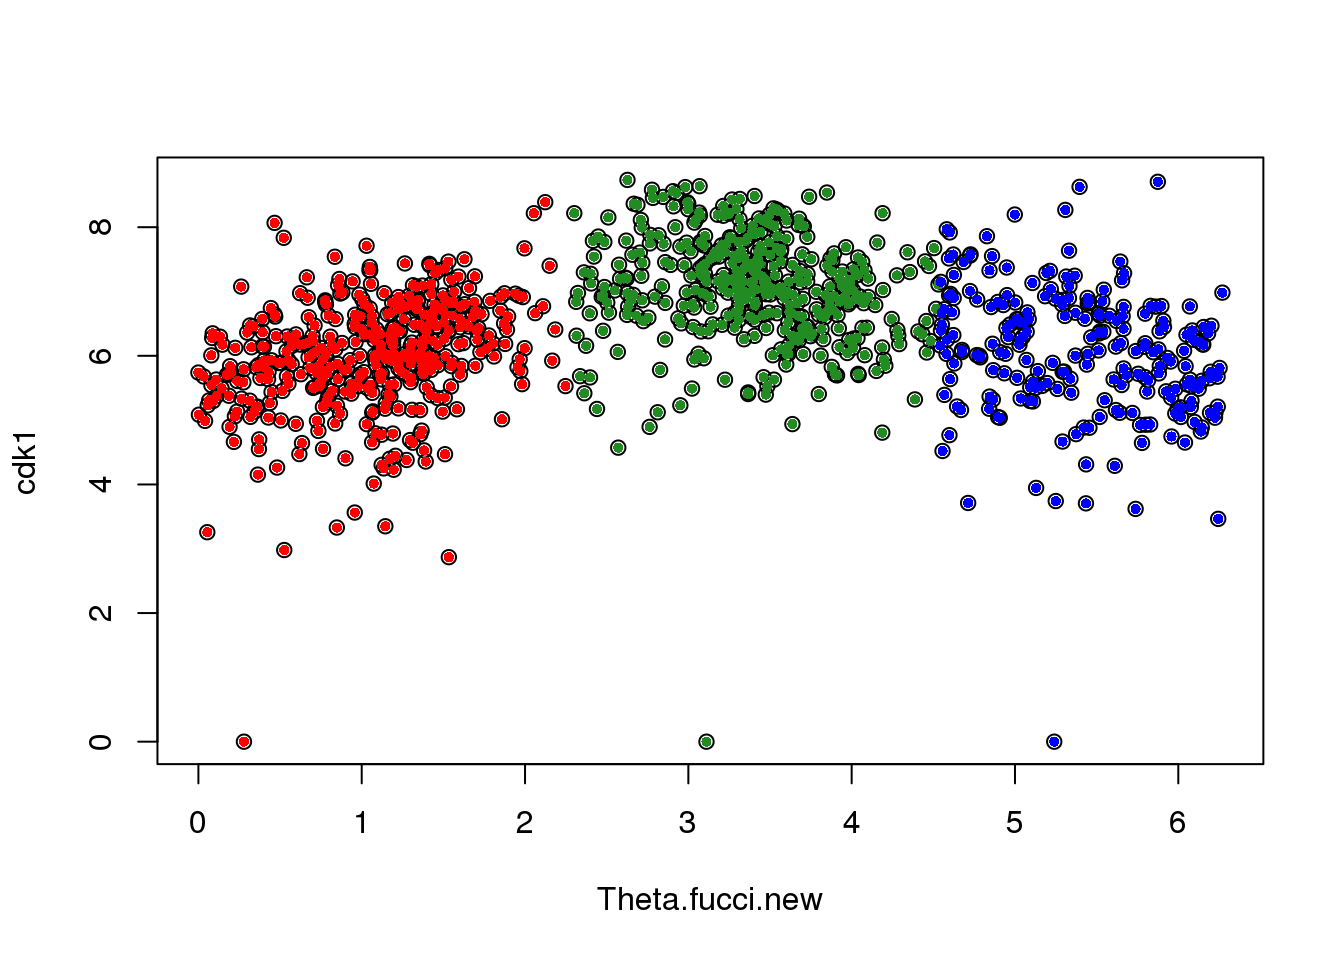
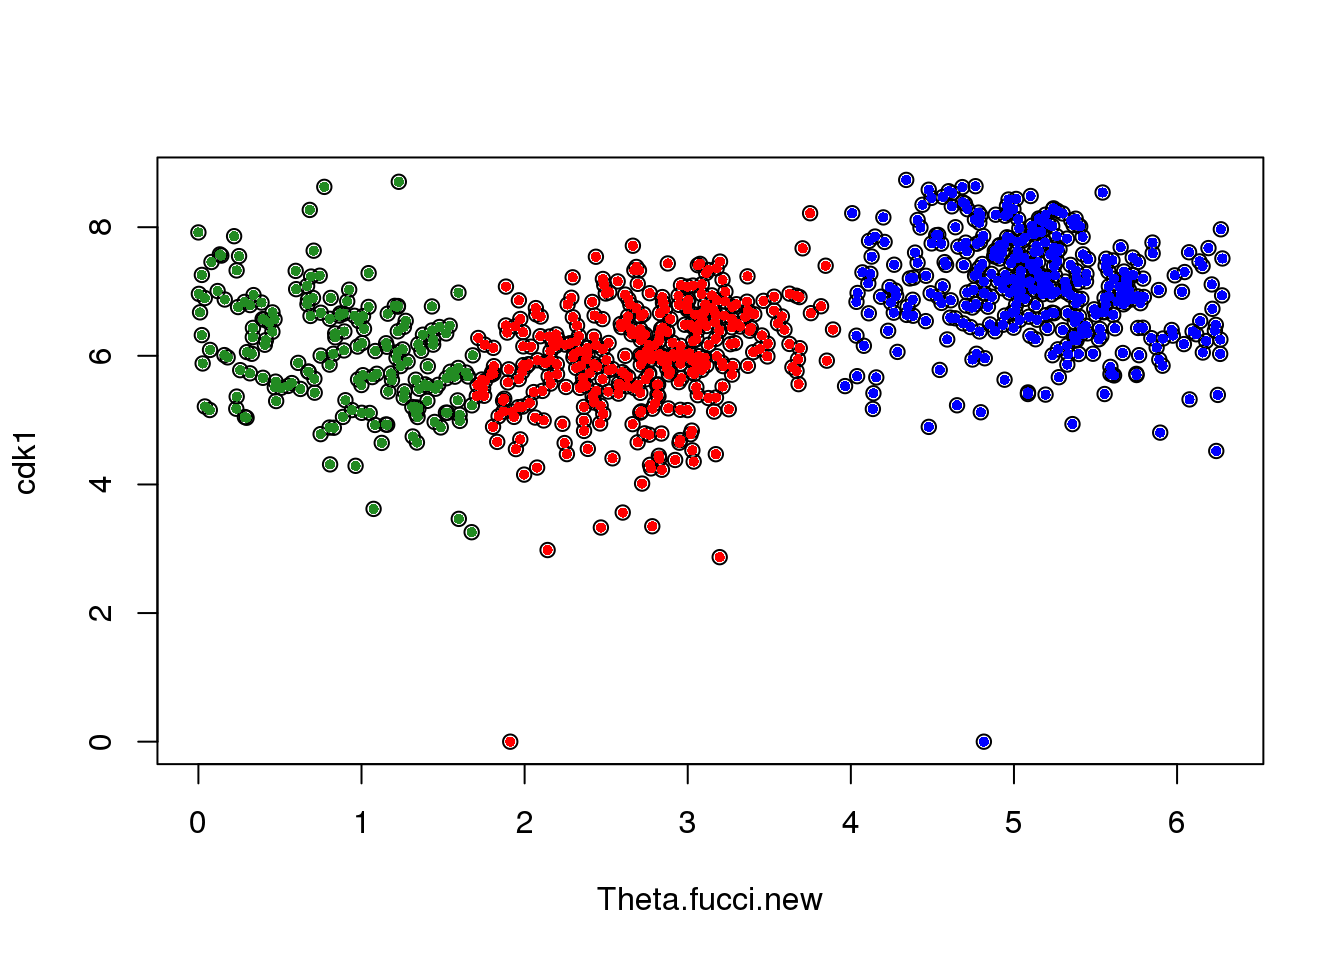
Build site.

diff --git a/docs/images-time-eval.html b/docs/images-time-eval.html
@@ -12,7 +12,7 @@
 <meta name="author" content="Joyce Hsiao" />
 
 
-<title>Select genes indicative of cell cycle state</title>
+<title>Evaluate projected cell time</title>
 
 <script src="site_libs/jquery-1.11.3/jquery.min.js"></script>
 <meta name="viewport" content="width=device-width, initial-scale=1" />
@@ -211,7 +211,7 @@ div.section {
 
 
 
-<h1 class="title toc-ignore">Select genes indicative of cell cycle state</h1>
+<h1 class="title toc-ignore">Evaluate projected cell time</h1>
 <h4 class="author"><em>Joyce Hsiao</em></h4>
 
 </div>
@@ -228,10 +228,10 @@ div.section {
 shared across the workflowr files. -->
 <!-- Update knitr chunk options -->
 <!-- Insert the date the file was last updated -->
-<p><strong>Last updated:</strong> 2018-04-10</p>
+<p><strong>Last updated:</strong> 2018-04-11</p>
 <!-- Insert the code version (Git commit SHA1) if Git repository exists and R
  package git2r is installed -->
-<p><strong>Code version:</strong> b8f2627</p>
+<p><strong>Code version:</strong> 8f11f42</p>
 <hr />
 <div id="estimate-cell-time" class="section level2">
 <h2>Estimate cell time</h2>
@@ -241,17 +241,11 @@ df &lt;- readRDS(file=&quot;../data/eset-final.rds&quot;)
 pdata &lt;- pData(df)
 fdata &lt;- fData(df)
 
-# select endogeneous genes
-counts &lt;- exprs(df)[grep(&quot;ENSG&quot;, rownames(df)), ]
-
-log2cpm.all &lt;- t(log2(1+(10^6)*(t(counts)/pdata$molecules)))
-
-
-pdata.adj &lt;- readRDS(&quot;../output/images-normalize-anova.Rmd/pdata.adj.rds&quot;)
+log2cpm.all &lt;- t(log2(1+(10^6)*(t(exprs(df))/pdata$molecules)))
 
 macosko &lt;- readRDS(&quot;../data/cellcycle-genes-previous-studies/rds/macosko-2015.rds&quot;)
 
-pc.fucci &lt;- prcomp(subset(pdata.adj, 
+pc.fucci &lt;- prcomp(subset(pdata, 
                           select=c(&quot;rfp.median.log10sum.adjust&quot;,
                                    &quot;gfp.median.log10sum.adjust&quot;)),
                    center = T, scale. = T)
@@ -279,16 +273,16 @@ saveRDS(labs, file = &quot;../output/images-time-eval.Rmd/labs.rds&quot;)</code>
 
 summary(as.numeric(Theta.fucci)[labs==1])</code></pre>
 <pre><code>   Min. 1st Qu.  Median    Mean 3rd Qu.    Max. 
-  1.277   1.978   2.392   2.336   2.692   3.525 </code></pre>
+  2.885   3.537   3.941   3.896   4.243   5.069 </code></pre>
 <pre class="r"><code>summary(as.numeric(Theta.fucci)[labs==2])</code></pre>
 <pre><code>   Min. 1st Qu.  Median    Mean 3rd Qu.    Max. 
-  3.579   4.348   4.689   4.675   5.007   5.809 </code></pre>
+  1.179   1.646   2.091   2.063   2.455   2.861 </code></pre>
 <pre class="r"><code>summary(as.numeric(Theta.fucci)[labs==3])</code></pre>
 <pre><code>    Min.  1st Qu.   Median     Mean  3rd Qu.     Max. 
-0.004806 0.434017 0.874891 2.095213 5.830072 6.278717 </code></pre>
-<pre class="r"><code># move the origin to 1.27
+0.004025 0.304041 1.112189 3.000234 5.923906 6.282360 </code></pre>
+<pre class="r"><code># move the origin to 1.17
 Theta.fucci.new &lt;- vector(&quot;numeric&quot;, length(Theta.fucci))
-cutoff &lt;- min(Theta.fucci[labs==1])
+cutoff &lt;- min(Theta.fucci[labs==2])
 Theta.fucci.new[Theta.fucci&gt;=cutoff] &lt;- Theta.fucci[Theta.fucci&gt;=cutoff] - cutoff
 Theta.fucci.new[Theta.fucci&lt;cutoff] &lt;- Theta.fucci[Theta.fucci&lt;cutoff] - cutoff + 2*pi</code></pre>
 <p>Try plotting for one gene</p>
@@ -305,24 +299,80 @@ points(y=cdk1[labs==3], x=as.numeric(Theta.fucci.new)[labs==3], pch=16, cex=.7, 
 </div>
 <div id="results" class="section level2">
 <h2>Results</h2>
+<p>Check data points with outlier DAPI values</p>
+<pre class="r"><code>ii.min.dapi &lt;- order(pData(df)$dapi.median.log10sum.adjust)[1:2]
+
+pData(df)[ii.min.dapi,]</code></pre>
+<pre><code>             experiment well cell_number concentration         ERCC
+20170924-E08   20170924  E08           1      1.125631 50x dilution
+20170924-F03   20170924  F03           1      2.157178 50x dilution
+             individual.1 individual.2 image_individual image_label
+20170924-E08      NA18870      NA19160      19160_18870          29
+20170924-F03      NA18870      NA19160      19160_18870          33
+                 raw     umi  mapped unmapped reads_ercc reads_hs
+20170924-E08 4494424 3083676 2197773   885903     169730  2027183
+20170924-F03 4884157 3348082 2349374   998708     158751  2189654
+             reads_egfp reads_mcherry molecules mol_ercc mol_hs mol_egfp
+20170924-E08        783            77    134694     3220 131433       39
+20170924-F03        957            12    156481     3373 153055       46
+             mol_mcherry detect_ercc detect_hs chip_id chipmix freemix
+20170924-E08           2          40      8284 NA19160 0.21325 0.08510
+20170924-F03           7          40      8691 NA18870 0.39507 0.15026
+               snps reads avg_dp min_dp snps_w_min valid_id cut_off_reads
+20170924-E08 311848  7531   0.02      1       3354     TRUE          TRUE
+20170924-F03 311848  8223   0.03      1       3694     TRUE          TRUE
+             unmapped_ratios cut_off_unmapped ercc_percentage cut_off_ercc
+20170924-E08       0.2872880             TRUE      0.07722818         TRUE
+20170924-F03       0.2982926             TRUE      0.06757162         TRUE
+             cut_off_genes ercc_conversion conversion conversion_outlier
+20170924-E08          TRUE      0.01897131 0.06483529              FALSE
+20170924-F03          TRUE      0.02124711 0.06989917              FALSE
+             molecule_outlier filter_all rfp.median.log10sum
+20170924-E08            FALSE       TRUE            1.702458
+20170924-F03            FALSE       TRUE            2.155286
+             gfp.median.log10sum dapi.median.log10sum
+20170924-E08            1.421271             1.176911
+20170924-F03            1.421271             1.146540
+             rfp.median.log10sum.adjust gfp.median.log10sum.adjust
+20170924-E08                -0.54086625                  -1.333926
+20170924-F03                 0.07550985                  -1.212614
+             dapi.median.log10sum.adjust size perimeter eccentricity
+20170924-E08                   -1.561447  703       107    0.9337102
+20170924-F03                   -1.476240  405        62    0.6811795
+                theta
+20170924-E08 2.070977
+20170924-F03 2.382573</code></pre>
 <pre class="r"><code>par(mfrow=c(2,2))
-ylims &lt;- with(pdata.adj, range(c(dapi.median.log10sum.adjust,
-                                 gfp.median.log10sum.adjust,
-                                 rfp.median.log10sum.adjust)))
-plot(as.numeric(Theta.fucci.new), pdata.adj$dapi.median.log10sum.adjust, col = &quot;blue&quot;, 
+ylims &lt;- with(pdata, range(c(dapi.median.log10sum.adjust,
+                             gfp.median.log10sum.adjust,
+                             rfp.median.log10sum.adjust)))
+plot(as.numeric(Theta.fucci.new), pdata$dapi.median.log10sum.adjust, col = &quot;blue&quot;, 
      ylab= &quot;adjusted intensity values&quot;,
      ylim = ylims, main = &quot;DAPI intensity values&quot;,
      xlab =&quot;Estimated cell time&quot;)
-plot(as.numeric(Theta.fucci.new), pdata.adj$gfp.median.log10sum.adjust, col = &quot;forestgreen&quot;, 
+points(as.numeric(Theta.fucci.new)[ii.min.dapi],
+       pdata$dapi.median.log10sum.adjust[ii.min.dapi], pch=4, lwd=2, cex=1)
+plot(as.numeric(Theta.fucci.new), pdata$gfp.median.log10sum.adjust, col = &quot;forestgreen&quot;, 
      ylab= &quot;adjusted intensity values&quot;,
      ylim = ylims, main = &quot;GFP and RFP intensity values&quot;,
      xlab =&quot;Estimated cell time&quot;)
-points(as.numeric(Theta.fucci.new), pdata.adj$rfp.median.log10sum.adjust, col = &quot;red&quot;)
+points(as.numeric(Theta.fucci.new)[ii.min.dapi],
+       pdata$gfp.median.log10sum.adjust[ii.min.dapi], pch=4, lwd=2, cex=1)
+points(as.numeric(Theta.fucci.new), pdata$rfp.median.log10sum.adjust, col = &quot;red&quot;)
+points(as.numeric(Theta.fucci.new)[ii.min.dapi],
+       pdata$rfp.median.log10sum.adjust[ii.min.dapi], pch=4, lwd=2, cex=1)
+
 plot(as.numeric(Theta.fucci.new), pdata$molecules, main = &quot;Total molecule count&quot;,
-     xlab =&quot;Estimated cell time&quot;, ylab = &quot;Total molecule count&quot;)
-plot(pdata.adj$dapi.median.log10sum.adjust, pdata$molecules, main = &quot;DAPI vs. molecule count&quot;,
-     xlab = &quot;DAPI intensity adjusted for C1 batch&quot;, ylab = &quot;Total molecule count&quot;)</code></pre>
-<p><img src="figure/images-time-eval.Rmd/unnamed-chunk-5-1.png" width="672" style="display: block; margin: auto;" /></p>
+     xlab =&quot;Estimated cell time&quot;, ylab = &quot;Total molecule count&quot;, col = &quot;gray50&quot;)
+points(as.numeric(Theta.fucci.new)[ii.min.dapi],
+       pdata$molecules[ii.min.dapi], pch=4, lwd=2, cex=1)
+
+plot(pdata$dapi.median.log10sum.adjust, pdata$molecules, main = &quot;DAPI vs. molecule count&quot;,
+     xlab = &quot;DAPI intensity adjusted for C1 batch&quot;, ylab = &quot;Total molecule count&quot;, 
+     col = &quot;gray50&quot;)
+points(pdata$dapi.median.log10sum.adjust[ii.min.dapi],
+       pdata$molecules[ii.min.dapi], pch=4, lwd=2, cex=1)</code></pre>
+<p><img src="figure/images-time-eval.Rmd/unnamed-chunk-6-1.png" width="672" style="display: block; margin: auto;" /></p>
 <p>Test the association between total sample molecule count and DAPI.</p>
 <ul>
 <li><p>After excluding outliers, pearson correlation is .2</p></li>
@@ -330,30 +380,61 @@ plot(pdata.adj$dapi.median.log10sum.adjust, pdata$molecules, main = &quot;DAPI v
 <li><p>Consider lm(log10(molecules) ~ dapi). The adjusted R-squared is .04</p></li>
 <li><p>Weak linear trend between molecule count and DAPI…</p></li>
 </ul>
-<pre class="r"><code>xy &lt;- data.frame(dapi=pdata.adj$dapi.median.log10sum.adjust,
-                 molecules=pdata$molecules)
-xy &lt;- subset(xy, molecules &lt; 2*10^5 &amp; dapi &gt; -1)
+<pre class="r"><code>xy &lt;- data.frame(dapi=pdata$dapi.median.log10sum.adjust,
+                 molecules=pdata$molecules,
+                 chip_id=pdata$chip_id)
+xy &lt;- xy[xy$dapi &gt; -1,]
 
-fit &lt;- lm(log10(molecules)~dapi, data=xy)
+fit &lt;- lm(molecules~dapi+factor(chip_id), data=xy)
 summary(fit)</code></pre>
 <pre><code>
 Call:
-lm(formula = log10(molecules) ~ dapi, data = xy)
+lm(formula = molecules ~ dapi + factor(chip_id), data = xy)
 
 Residuals:
-      Min        1Q    Median        3Q       Max 
--0.316134 -0.056187  0.007504  0.060388  0.225894 
+   Min     1Q Median     3Q    Max 
+-54492 -15575  -1546  13723  71917 
 
 Coefficients:
-            Estimate Std. Error  t value Pr(&gt;|t|)    
-(Intercept) 5.098818   0.002783 1832.186  &lt; 2e-16 ***
-dapi        0.082510   0.013209    6.246 6.27e-10 ***
+                       Estimate Std. Error t value Pr(&gt;|t|)    
+(Intercept)            128330.1     2191.8  58.550  &lt; 2e-16 ***
+dapi                    17081.8     3732.2   4.577 5.40e-06 ***
+factor(chip_id)NA18855  -7233.1     2838.5  -2.548  0.01100 *  
+factor(chip_id)NA18870   2640.0     2680.6   0.985  0.32495    
+factor(chip_id)NA19098   -833.6     2733.1  -0.305  0.76043    
+factor(chip_id)NA19101  17348.1     2976.0   5.829 7.81e-09 ***
+factor(chip_id)NA19160   9631.3     3034.5   3.174  0.00156 ** 
 ---
 Signif. codes:  0 &#39;***&#39; 0.001 &#39;**&#39; 0.01 &#39;*&#39; 0.05 &#39;.&#39; 0.1 &#39; &#39; 1
 
-Residual standard error: 0.08695 on 975 degrees of freedom
-Multiple R-squared:  0.03848,   Adjusted R-squared:  0.03749 
-F-statistic: 39.02 on 1 and 975 DF,  p-value: 6.268e-10</code></pre>
+Residual standard error: 22160 on 879 degrees of freedom
+Multiple R-squared:  0.1335,    Adjusted R-squared:  0.1276 
+F-statistic: 22.57 on 6 and 879 DF,  p-value: &lt; 2.2e-16</code></pre>
+<pre class="r"><code>fit &lt;- lm(log10(molecules)~dapi+factor(chip_id), data=xy)
+summary(fit)</code></pre>
+<pre><code>
+Call:
+lm(formula = log10(molecules) ~ dapi + factor(chip_id), data = xy)
+
+Residuals:
+     Min       1Q   Median       3Q      Max 
+-0.20393 -0.04962  0.00043  0.04868  0.21492 
+
+Coefficients:
+                        Estimate Std. Error t value Pr(&gt;|t|)    
+(Intercept)             5.103490   0.007289 700.187  &lt; 2e-16 ***
+dapi                    0.058028   0.012411   4.675 3.39e-06 ***
+factor(chip_id)NA18855 -0.027545   0.009439  -2.918  0.00361 ** 
+factor(chip_id)NA18870  0.006707   0.008914   0.752  0.45197    
+factor(chip_id)NA19098 -0.005623   0.009089  -0.619  0.53626    
+factor(chip_id)NA19101  0.054951   0.009896   5.553 3.73e-08 ***
+factor(chip_id)NA19160  0.030816   0.010091   3.054  0.00233 ** 
+---
+Signif. codes:  0 &#39;***&#39; 0.001 &#39;**&#39; 0.01 &#39;*&#39; 0.05 &#39;.&#39; 0.1 &#39; &#39; 1
+
+Residual standard error: 0.0737 on 879 degrees of freedom
+Multiple R-squared:  0.1371,    Adjusted R-squared:  0.1312 
+F-statistic: 23.28 on 6 and 879 DF,  p-value: &lt; 2.2e-16</code></pre>
 <pre class="r"><code>fit &lt;- lm(molecules~dapi, data=xy)
 summary(fit)</code></pre>
 <pre><code>
@@ -362,30 +443,52 @@ lm(formula = molecules ~ dapi, data = xy)
 
 Residuals:
    Min     1Q Median     3Q    Max 
--67799 -17713   -348  16665  73746 
+-49959 -16957   -585  15862  86073 
 
 Coefficients:
             Estimate Std. Error t value Pr(&gt;|t|)    
-(Intercept) 128117.8      793.7 161.415  &lt; 2e-16 ***
-dapi         23538.3     3767.5   6.248 6.21e-10 ***
+(Intercept) 131005.0      784.9 166.902  &lt; 2e-16 ***
+dapi         20835.5     3794.1   5.492 5.21e-08 ***
 ---
 Signif. codes:  0 &#39;***&#39; 0.001 &#39;**&#39; 0.01 &#39;*&#39; 0.05 &#39;.&#39; 0.1 &#39; &#39; 1
 
-Residual standard error: 24800 on 975 degrees of freedom
-Multiple R-squared:  0.03849,   Adjusted R-squared:  0.03751 
-F-statistic: 39.03 on 1 and 975 DF,  p-value: 6.211e-10</code></pre>
+Residual standard error: 23350 on 884 degrees of freedom
+Multiple R-squared:  0.03299,   Adjusted R-squared:  0.0319 
+F-statistic: 30.16 on 1 and 884 DF,  p-value: 5.209e-08</code></pre>
+<pre class="r"><code>fit &lt;- lm(log10(molecules)~dapi, data=xy)
+summary(fit)</code></pre>
+<pre><code>
+Call:
+lm(formula = log10(molecules) ~ dapi, data = xy)
+
+Residuals:
+      Min        1Q    Median        3Q       Max 
+-0.201411 -0.053816  0.004652  0.056963  0.222330 
+
+Coefficients:
+            Estimate Std. Error  t value Pr(&gt;|t|)    
+(Intercept) 5.110141   0.002613 1955.683  &lt; 2e-16 ***
+dapi        0.071475   0.012630    5.659 2.06e-08 ***
+---
+Signif. codes:  0 &#39;***&#39; 0.001 &#39;**&#39; 0.01 &#39;*&#39; 0.05 &#39;.&#39; 0.1 &#39; &#39; 1
+
+Residual standard error: 0.07772 on 884 degrees of freedom
+Multiple R-squared:  0.03496,   Adjusted R-squared:  0.03387 
+F-statistic: 32.02 on 1 and 884 DF,  p-value: 2.057e-08</code></pre>
+<pre class="r"><code>cor(xy$dapi, xy$molecules, method = &quot;pearson&quot;)</code></pre>
+<pre><code>[1] 0.1816292</code></pre>
+<pre class="r"><code>cor(xy$dapi, log10(xy$molecules), method = &quot;pearson&quot;)</code></pre>
+<pre><code>[1] 0.1869765</code></pre>
 <pre class="r"><code>par(mfrow=c(1,2))
 plot(x=xy$dapi, y = xy$molecules,
      xlab = &quot;DAPI intensity&quot;, ylab = &quot;Total molecule count&quot;,
-     main = &quot;DAPI vs. molecule count \n adj-Rsq = .04&quot;)
+     main = &quot;DAPI vs. molecule count \n adj-Rsq = .03; cor=.2&quot;)
 abline(lm(molecules~dapi, data=xy), col = &quot;red&quot;)
 plot(x=xy$dapi, y = log10(xy$molecules),
      xlab = &quot;DAPI intensity&quot;, ylab = &quot;log10 total molecule count&quot;,
-     main = &quot;DAPI vs. log10 molecule count \n adj-Rsq = .04&quot;)
+     main = &quot;DAPI vs. log10 molecule count \n adj-Rsq = .03, cor=.2&quot;)
 abline(lm(log10(molecules)~dapi, data=xy), col = &quot;red&quot;)</code></pre>
-<p><img src="figure/images-time-eval.Rmd/unnamed-chunk-6-1.png" width="672" style="display: block; margin: auto;" /></p>
-<pre class="r"><code>cor(xy$dapi, xy$molecules, method = &quot;pearson&quot;)</code></pre>
-<pre><code>[1] 0.1962001</code></pre>
+<p><img src="figure/images-time-eval.Rmd/unnamed-chunk-7-1.png" width="672" style="display: block; margin: auto;" /></p>
 <hr />
 </div>
 <div id="session-information" class="section level2">
